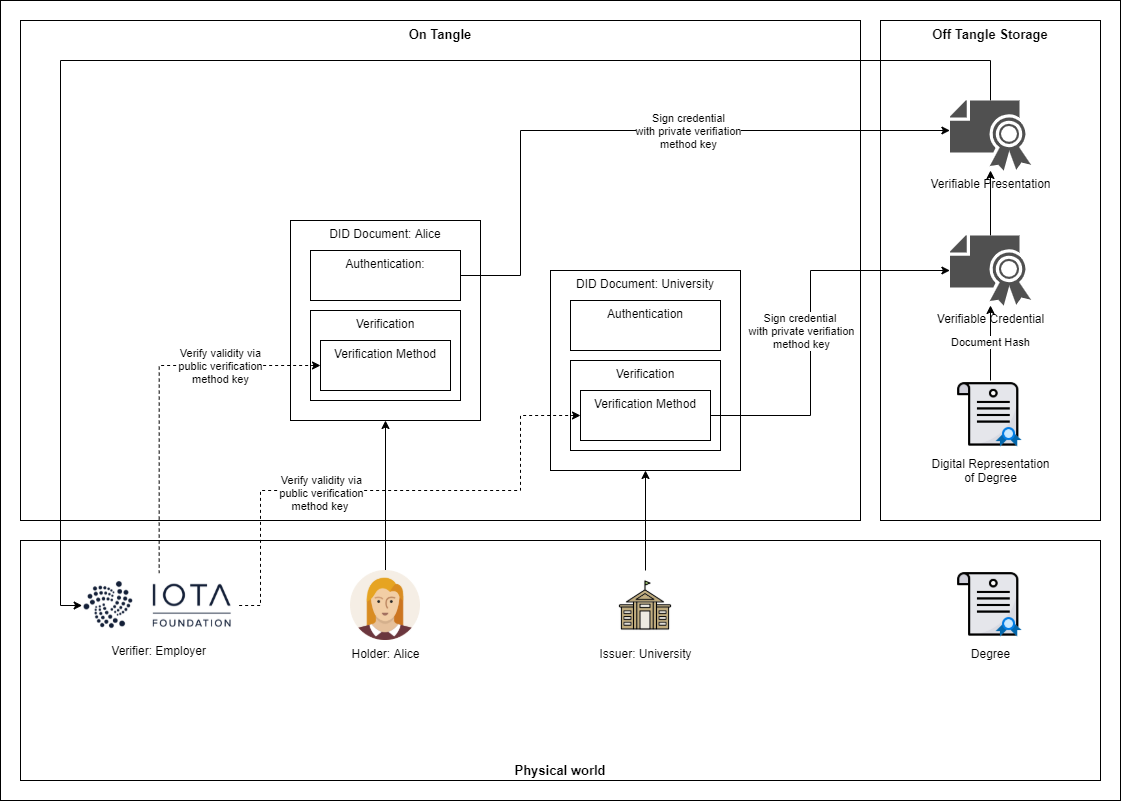
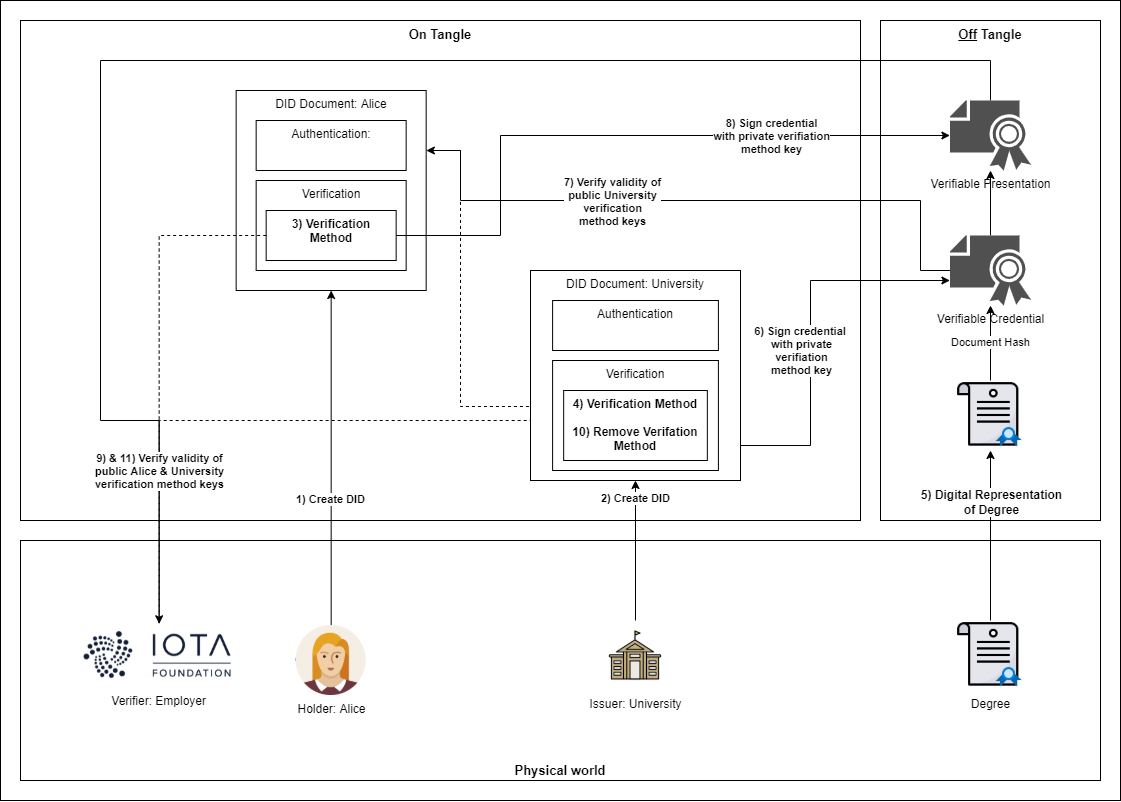
Add step numbers to flow chart

diff --git a/createVerifiableCredential.js b/createVerifiableCredential.js
@@ -1,7 +1,7 @@
 // Copyright 2020-2021 IOTA Stiftung
 // SPDX-License-Identifier: Apache-2.0
 
-const { Client, Config, VerifiableCredential, KeyPair, Document } = require("@iota/identity-wasm/node");
+const { VerifiableCredential, KeyPair, Document } = require("@iota/identity-wasm/node");
 const { resolveDid } = require('./resolveDid');
 const { getWeakholdObject } = require('./getWeakholdObject');
 const { writeFileSync } = require('fs');

diff --git a/README.md b/README.md
@@ -1,7 +1,7 @@
 ## IOTA Identity Tutorial (WASM-Binding)
 
 ### Problem Description
-Within the following code examples you will utilize the [WASM binding of the IOTA Identity framework](https://github.com/iotaledger/identity.rs/tree/dev/bindings/wasm/examples) to solve the problem described below:
+In this tutorial you will utilize the [WASM binding of the IOTA Identity framework](https://github.com/iotaledger/identity.rs/tree/dev/bindings/wasm/examples) to solve the problem described below. To follow along please clone this repo and make sure to install the npm/yarn package *@iota/identity-wasm@dev* as described [here](https://github.com/iotaledger/identity.rs/blob/dev/bindings/wasm/README.md#install-the-library):
 > Alice recently graduated from the University of Oslo with a Bachelors of Computer Science. Now she wants to apply for a remote job at the IOTA Foundation and needs to digitally prove the existence and validity of her degree. What she needs is an immutable and verifiable credential, which has been approved by both the University of Oslo and herself, before presenting it to her possible new employer.
 
 ### Roles
@@ -14,10 +14,10 @@ As described [here](https://www.iota.org/solutions/digital-identity), IOTA Ident
 
 ### Key Storage
 - In this tutorial, the key pairs for every newly created or updated DID document will be stored in Weakhold
-    - Ok, ok it's just JSON files in a folder, but it get's the job done
-    - e.g. ./weakhold/Alice.json
+    - Ok, ok, it's just a couple of JSON files in a folder, but it get's the job done
+    - The files are stored in the Folder *weakhold* (e.g. ./weakhold/Alice.json)
 
-:warning: **Needless to say that this is no proper key storage solution and for professional IOTA implementations you should use our key management framework [Stronghold](https://github.com/iotaledger/stronghold.rs).**
+:warning: **Needless to say that this is no proper key storage solution and for professional IOTA implementations we strongly recommend using our key management framework [Stronghold](https://github.com/iotaledger/stronghold.rs).**
 
 Example Weakhold file:
 ```json
@@ -40,18 +40,18 @@ Example Weakhold file:
 ```
 
 ### Steps
-In this process, you will complete the following steps from the perspective of one of the mentioned roles:
-1. Holder: Create a DID (Decentralized Identifier) document for Alice
+In this process, you will complete the different steps from the perspective of one of the mentioned roles above:
+1. **Holder:** Create a DID (Decentralized Identifier) document for Alice
     - [createDid.js](createDid.js)
     ```javascript
     createDid('Alice');
     ```
-2. Issuer: Create a DID document for the University of Oslo
+2. **Issuer:** Create a DID document for the University of Oslo
     - [createDid.js](createDid.js)
     ```javascript
     createDid('University of Oslo');
     ```
-3. Issuer: Add a verification method to the University's DID document with the purpose to verify Alice's degree
+3. **Issuer:** Add a verification method to the University's DID document with the purpose to verify Alice's degree
     - [addVerificationMethod.js](addVerificationMethod.js)
     ```javascript
     //Add verification method to issuer DID
@@ -64,7 +64,7 @@ In this process, you will complete the following steps from the perspective of o
         KeyPair.fromJSON(issuer.authKey),
         issuerVerificationMethod);
     ```
-4. Holder: Add a verification method to Alice's DID document with the purpose to present her degree to a third party
+4. **Holder:** Add a verification method to Alice's DID document with the purpose to present her degree to a third party
     - [addVerificationMethod.js](addVerificationMethod.js)
     ```javascript
     //Add verification method to holder DID
@@ -77,7 +77,7 @@ In this process, you will complete the following steps from the perspective of o
         KeyPair.fromJSON(holder.authKey),
         holderVerificationMethod);
     ```
-5. Holder: Setup a document representing Alice's degree, containing her DID
+5. **Holder:** Setup a document representing Alice's degree, containing her DID
     - [createVerifiableCredential.js](createVerifiableCredential.js)
     ```javascript
     //This part is already hard coded in "createVerifiableCredential.js"
@@ -90,7 +90,7 @@ In this process, you will complete the following steps from the perspective of o
         "GPA": "4.0"
     }
     ```
-6. Issuer: Sign degree document with the private key of the University's verification method for a verifiable credential
+6. **Issuer:** Sign degree document with the private key of the University's verification method for a verifiable credential
     - [createVerifiableCredential.js](createVerifiableCredential.js)
     ```javascript
     //Issue and sign verifiable credential from weakhold object
@@ -106,13 +106,13 @@ In this process, you will complete the following steps from the perspective of o
         holder.did,
         holder.subject);
     ```
-7. Holder: Alice verifies the credentials to make sure it was actually signed by key associated to the University DID
+7. **Holder:** Alice verifies the credentials to make sure it was actually signed by a key associated to the University DID
     - [checkVerifiableCredential.js](checkVerifiableCredential.js)
     ```javascript
     let signedVcPath = './signedCredentials/signedVC.json';
     checkVerifiableCredential(signedVcPath);
     ```
-8. Holder: Alice signs verifiable credential with private key of Alices's verification method for a verifiable presentation
+8. **Holder:** Alice signs verifiable credential with private key of Alices's verification method for a verifiable presentation
     - [createVerifiablePresentation.js](createVerifiablePresentation.js)
     ```javascript
     //Issue and sign verifiable credential from weakhold object
@@ -127,13 +127,13 @@ In this process, you will complete the following steps from the perspective of o
         holderVerificationMethod,
         signedVcPath);
     ```
-9. Verifier: Verify Alice's and the University's signatures with their respective public keys
+9. **Verifier:** Verify Alice's and the University's signatures with their respective public keys
     - [checkVerifiablePresentation.js](checkVerifiablePresentation.js)
     ```javascript
     let signedVpPath = './signedCredentials/signedVP.json';
     checkVerifiablePresentation(signedVpPath);
     ```
-10. Issuer: Unfortunately the University found out, that Alice was cheating on her final exam. Thus the University revokes the verification of Alice's credential
+10. **Issuer:** Unfortunately the University found out, that Alice was cheating on her final exam. Thus the University revokes the verification of Alice's credential
     - [removeVerificationMethod.js](removeVerificationMethod.js)
     ```javascript
     //Issue and sign verifiable credential from weakhold object
@@ -145,4 +145,10 @@ In this process, you will complete the following steps from the perspective of o
         issuer.did,
         KeyPair.fromJSON(issuer.authKey),
         verifiactionMethodName);
+    ```
+11. **Verifier:** Verify Alice's and the University's signatures again and see the University revoked their verification
+    - [checkVerifiablePresentation.js](checkVerifiablePresentation.js)
+    ```javascript
+    let signedVpPath = './signedCredentials/signedVP.json';
+    checkVerifiablePresentation(signedVpPath);
     ```
